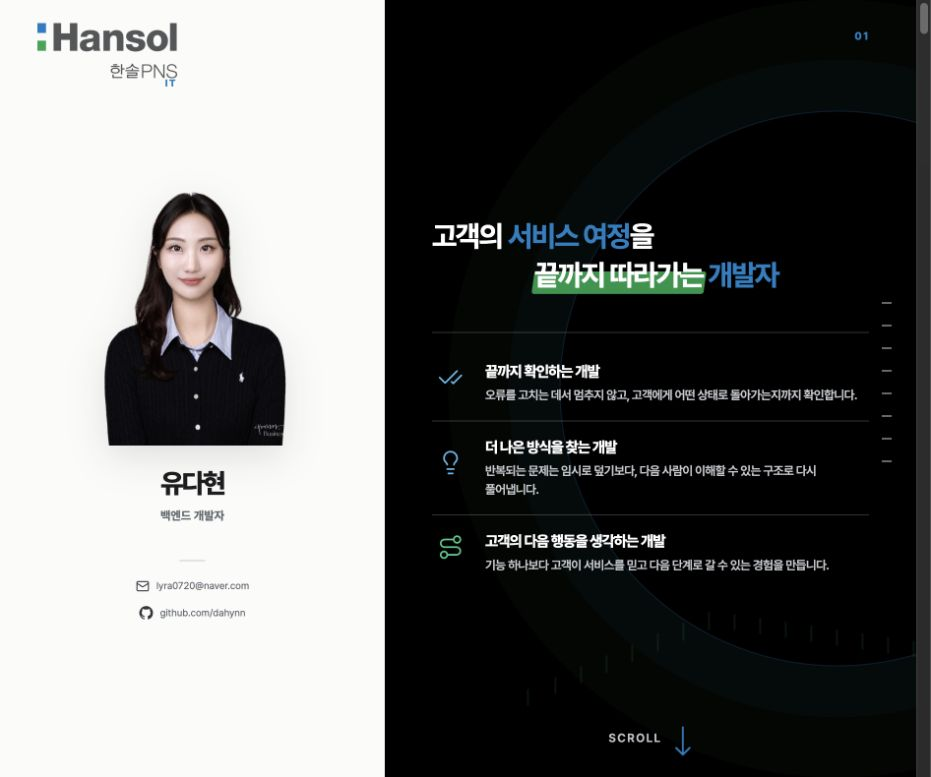
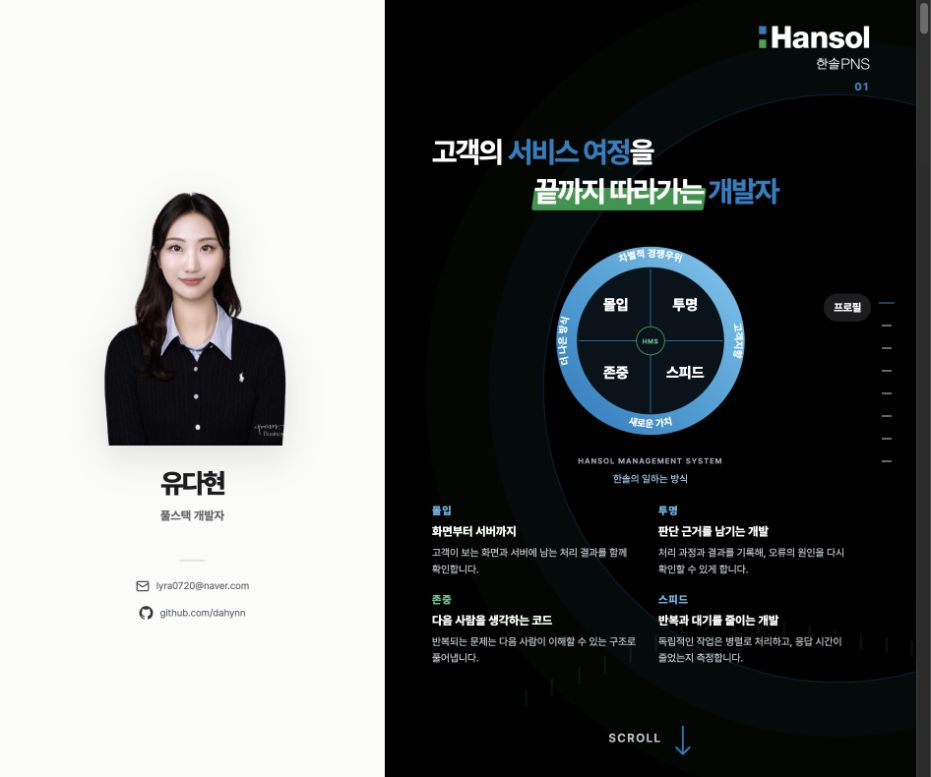
feat: align portfolio with Hansol values and full-stack role

diff --git a/app/globals.css b/app/globals.css
@@ -2031,3 +2031,51 @@ a { color:inherit; text-decoration:none; }
 #introduction .hansol-logo { left:clamp(2rem,4vw,5rem); right:auto; top:clamp(1.25rem,2.6vw,2.6rem); padding:0; width:142px; height:64px; }
 #introduction .page-number { top:clamp(1.75rem,3vw,3rem); color:var(--hansol-blue); }
 @media(max-width:760px) { #introduction .hansol-logo { left:1.5rem; top:.85rem; width:110px; height:52px; } #introduction .page-number { top:1rem; } }
+
+/* The transparent logo sits in the top right; preserve the blue and green mark. */
+.hansol-logo { width:112px; height:48px; padding:0; }
+.hansol-logo .brand-colors { display:none; }
+#introduction .hansol-logo { left:auto; right:clamp(2rem,5vw,6rem); top:clamp(1.25rem,2.6vw,2.6rem); width:112px; height:48px; padding:0; }
+#introduction .hansol-logo img { width:100%; height:auto; filter:brightness(0) invert(1); }
+#introduction .hansol-logo .brand-colors { position:absolute; inset:0; display:block; width:100%; height:100%; object-fit:contain; filter:none; clip-path:inset(0 93.5% 0 0); }
+#introduction .page-number { top:clamp(5rem,7vw,6.1rem); }
+#introduction .hansol-principles { position:relative; z-index:1; display:grid; grid-template-columns:minmax(0,1.05fr) minmax(0,1fr); align-items:center; gap:clamp(1rem,2vw,1.8rem); margin-top:clamp(1.3rem,3vh,2rem); }
+.principles-wheel { min-width:0; margin:0; }
+.principles-wheel svg { display:block; width:100%; height:auto; overflow:visible; }
+.wheel-outer-label { fill:#fff; font:700 18px Pretendard, sans-serif; letter-spacing:.2px; }
+.wheel-inner-label { fill:#fff; font:750 27px Pretendard, sans-serif; }
+.wheel-center { fill:#52c48b; font:700 12px Pretendard,sans-serif; letter-spacing:1px; }
+.principles-wheel figcaption { display:flex; flex-direction:column; align-items:center; gap:.3rem; margin-top:.4rem; color:#9daab2; }
+.principles-wheel figcaption span { font-size:.49rem; font-weight:650; letter-spacing:.13em; }
+.principles-wheel figcaption a { color:#8ecae8; font-size:.64rem; }
+.principles-wheel figcaption a:hover { text-decoration:underline; }
+.principles-experience { display:grid; gap:.95rem; min-width:0; margin:0; }
+.principles-experience>div { padding-bottom:.8rem; border-bottom:1px solid #ffffff21; }
+.principles-experience>div:last-child { padding-bottom:0; border:0; }
+.principles-experience dt { display:flex; flex-direction:column; gap:.3rem; }
+.principles-experience dt>span { color:#56b6e7; font-size:.68rem; font-weight:800; letter-spacing:.08em; }
+.principles-experience>div:nth-child(3) dt>span { color:#48c58a; }
+.principles-experience strong { color:#fff; font-size:clamp(.75rem,.93vw,.88rem); line-height:1.4; font-weight:750; word-break:keep-all; }
+.principles-experience dd { margin:.3rem 0 0; color:#bbc2c7; font-size:clamp(.65rem,.78vw,.75rem); line-height:1.6; word-break:keep-all; }
+@media(min-width:761px) and (max-width:1100px) {
+  #introduction .hansol-principles { grid-template-columns:1fr; gap:1rem; }
+  .principles-wheel { width:220px; justify-self:center; }
+  .principles-experience { grid-template-columns:repeat(2,minmax(0,1fr)); gap:.9rem 1rem; }
+  .principles-experience>div { padding:0; border:0; }
+  #introduction .profile-details { padding-top:5.5rem; padding-bottom:4rem; }
+}
+@media(max-width:760px) {
+  #introduction .hansol-logo { width:92px; height:39px; left:auto; right:1.5rem; top:1rem; }
+  #introduction .hansol-logo img { filter:none; }
+  #introduction .hansol-logo .brand-colors { display:none; }
+  #introduction .page-number { top:3.9rem; }
+  #introduction .hansol-principles { grid-template-columns:1fr; gap:1.2rem; margin-top:1.65rem; }
+  .principles-wheel { width:min(100%,285px); justify-self:center; }
+  .principles-experience { grid-template-columns:repeat(2,minmax(0,1fr)); gap:1.2rem 1rem; }
+  .principles-experience>div { padding:0; border:0; }
+  .principles-experience strong { font-size:.78rem; }
+  .principles-experience dd { font-size:.72rem; }
+}
+
+/* Keep section numbers below the compact wordmark. */
+.page-number { top:76px; }

diff --git a/components/PersonalStrengths.tsx b/components/PersonalStrengths.tsx
@@ -1,11 +1,33 @@
-import { TalentSymbol } from './TalentSymbol';
+const principles = [
+  { name: '몰입', title: '화면부터 서버까지', description: '고객이 보는 화면과 서버에 남는 처리 결과를 함께 확인합니다.' },
+  { name: '투명', title: '판단 근거를 남기는 개발', description: '처리 과정과 결과를 기록해, 오류의 원인을 다시 확인할 수 있게 합니다.' },
+  { name: '존중', title: '다음 사람을 생각하는 코드', description: '반복되는 문제는 다음 사람이 이해할 수 있는 구조로 풀어냅니다.' },
+  { name: '스피드', title: '반복과 대기를 줄이는 개발', description: '독립적인 작업은 병렬로 처리하고, 응답 시간이 줄었는지 측정합니다.' },
+];
 
 export function PersonalStrengths() {
-  return <section className="personal-strengths" aria-label="일하는 기준">
-    <ol>
-      <li><div className="strength-marker"><TalentSymbol value="discipline" /></div><div><h3>끝까지 확인하는 개발</h3><p>오류를 고치는 데서 멈추지 않고, 고객에게 어떤 상태로 돌아가는지까지 확인합니다.</p></div></li>
-      <li><div className="strength-marker"><TalentSymbol value="creative-thinking" /></div><div><h3>더 나은 방식을 찾는 개발</h3><p>반복되는 문제는 임시로 덮기보다, 다음 사람이 이해할 수 있는 구조로 다시 풀어냅니다.</p></div></li>
-      <li><div className="strength-marker"><TalentSymbol value="sense-of-purpose" /></div><div><h3>고객의 다음 행동을 생각하는 개발</h3><p>기능 하나보다 고객이 서비스를 믿고 다음 단계로 갈 수 있는 경험을 만듭니다.</p></div></li>
-    </ol>
+  return <section className="hansol-principles" aria-label="한솔의 일하는 방식과 나의 개발 기준">
+    <figure className="principles-wheel">
+      <svg viewBox="0 0 400 400" aria-hidden="true" focusable="false">
+        <defs>
+          <linearGradient id="principles-ring" x1="0" y1="1" x2="1" y2="0"><stop stopColor="#007fc3" /><stop offset="1" stopColor="#6dc5ef" /></linearGradient>
+          <path id="principles-top" d="M 69, 116 A 156,156 0 0,1 331,116" />
+          <path id="principles-right" d="M 337,124 A 156,156 0 0,1 337,276" />
+          <path id="principles-bottom" d="M 79,302 A 156,156 0 0,0 321,302" />
+          <path id="principles-left" d="M 63,276 A 156,156 0 0,1 63,124" />
+        </defs>
+        <circle cx="200" cy="200" r="155" fill="#07131b" stroke="url(#principles-ring)" strokeWidth="38" />
+        <g className="wheel-outer-label"><text><textPath href="#principles-top" startOffset="50%" textAnchor="middle">차별적 경쟁우위</textPath></text><text><textPath href="#principles-right" startOffset="50%" textAnchor="middle">고객지향</textPath></text><text><textPath href="#principles-bottom" startOffset="50%" textAnchor="middle">새로운 가치</textPath></text><text><textPath href="#principles-left" startOffset="50%" textAnchor="middle">더 나은 방식</textPath></text></g>
+        <g stroke="#007fc3" strokeWidth="1.6" opacity=".8"><path d="M200 67v266M67 200h266" /></g>
+        <circle cx="200" cy="200" r="26" fill="#07131b" stroke="#00a650" strokeWidth="1.5" />
+        <text className="wheel-center" x="200" y="205" textAnchor="middle">HMS</text>
+        <g className="wheel-inner-label" textAnchor="middle"><text x="136" y="143">몰입</text><text x="264" y="143">투명</text><text x="136" y="268">존중</text><text x="264" y="268">스피드</text></g>
+      </svg>
+      <figcaption><span>HANSOL MANAGEMENT SYSTEM</span><a href="https://hansol.com/home/recruit/recruit01.jsp" target="_blank" rel="noreferrer">한솔의 일하는 방식</a></figcaption>
+    </figure>
+    <dl className="principles-experience">{principles.map((principle) => <div key={principle.name}>
+      <dt><span>{principle.name}</span><strong>{principle.title}</strong></dt>
+      <dd>{principle.description}</dd>
+    </div>)}</dl>
   </section>;
 }

diff --git a/app/page.tsx b/app/page.tsx
@@ -74,7 +74,7 @@ const skillLevelLabels = ['기초', '초급', '중급', '고급', '전문가'];
 function BrandLogo() {
   return (
     <span className="hansol-logo" aria-label="한솔PNS IT">
-      <img src="/assets/hansol-pns-logo.png" alt="" aria-hidden="true" /><span className="brand-division">IT</span>
+      <img src="/assets/hansol-pns-logo.png" alt="" aria-hidden="true" /><img className="brand-colors" src="/assets/hansol-pns-logo.png" alt="" aria-hidden="true" />
     </span>
   );
 }
@@ -97,7 +97,7 @@ export default function Home() {
         <div className="profile-intro">
           <div className="photo-slot"><img src="/assets/profile.png" alt="유다현 프로필 사진" fetchPriority="high" decoding="async" /></div>
           <p className="profile-name">유다현</p>
-          <p className="profile-role">백엔드 개발자</p>
+          <p className="profile-role">풀스택 개발자</p>
           <section className="profile-contact" aria-labelledby="profile-contact-title">
             <h2 id="profile-contact-title">Contact</h2>
             <dl>

diff --git a/app/layout.tsx b/app/layout.tsx
@@ -6,7 +6,7 @@ export const metadata: Metadata = {
   metadataBase: new URL('https://hansol.dahyeon.kr'),
   title: '유다현 포트폴리오',
   description: '유다현 개발자 포트폴리오',
-  openGraph: { title: '유다현 | 한솔PNS IT 백엔드 개발자 포트폴리오', description: '고객의 서비스 여정을 끝까지 따라가는 개발자', images: ['/assets/hansol-share.png'] },
+  openGraph: { title: '유다현 | 한솔PNS IT 풀스택 개발자 포트폴리오', description: '고객의 서비스 여정을 끝까지 따라가는 개발자', images: ['/assets/hansol-share.png'] },
   twitter: { card: 'summary_large_image', images: ['/assets/hansol-share.png'] },
   icons: {
     icon: '/assets/hansol-symbol.svg',

diff --git a/vite.config.ts b/vite.config.ts
@@ -10,7 +10,6 @@ const SITE_CREATOR_PLACEHOLDER_DATABASE_ID =
 const { d1, r2 } = hostingConfig;
 
 // macOS Seatbelt blocks FSEvents, so Codex previews need polling for HMR.
-const isCodexSeatbeltSandbox = process.env.CODEX_SANDBOX === 'seatbelt';
 const isPagesExport = process.env.PORTFOLIO_PAGES === 'true';
 
 const localBindingConfig = {
@@ -47,9 +46,7 @@ export default defineConfig(async () => {
 
   return {
     css: { postcss: { plugins: [tailwindcss()] } },
-    server: isCodexSeatbeltSandbox
-      ? { watch: { useFsEvents: false, usePolling: true } }
-      : undefined,
+    server: { watch: { useFsEvents: false, usePolling: true } },
     plugins: [
       vinext(),
       sites(),

diff --git a/README.md b/README.md
@@ -1,6 +1,6 @@
 # 유다현 · 한솔PNS IT 포트폴리오
 
-한화 포트폴리오의 화면 구성과 프로젝트 자료를 재사용한 한솔PNS IT 지원용 정적 포트폴리오입니다.
+한화 포트폴리오의 화면 구성과 프로젝트 자료를 재사용한 한솔PNS IT 지원용 풀스택 개발자 정적 포트폴리오입니다.
 
 ## 로컬 실행
 
@@ -36,4 +36,5 @@ npm run build:pages
 - 한솔 공식 CI: https://hansol.com/home/hansol/hansol04.jsp
 - 로고: 사용자가 제공한 한솔PNS PNG 원본
 - 파랑 `#007fc3`, 초록 `#00a650`: 제공된 로고 색상
+- 인재상: https://hansol.com/home/recruit/recruit01.jsp 의 몰입·투명·존중·스피드와 원형 구성을 반영합니다.
 - 기존 활동 이력인 한화금융캠퍼스는 유지합니다.
